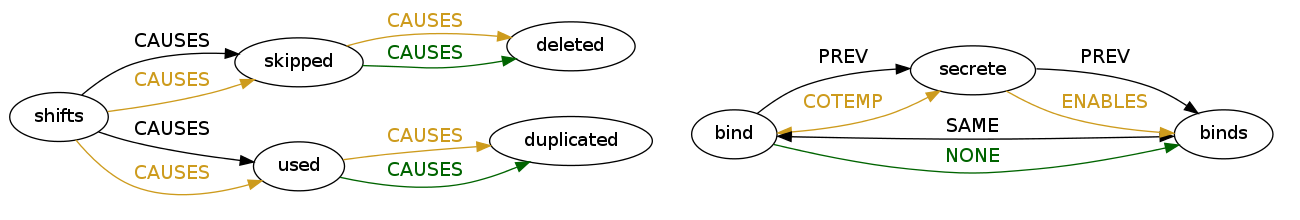
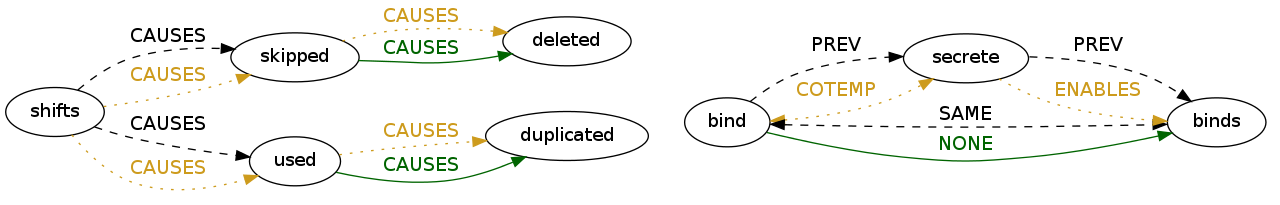
changing figure

diff --git a/Emnlp2013/experiment.tex b/Emnlp2013/experiment.tex
@@ -71,7 +71,7 @@ Table~\ref{tab:paramtuning} presents the order in which global constraints were 
 \begin{figure*}[t]
 \centering
 \includegraphics[width=0.99\textwidth]{figures/example.png} 
-\caption{Fragments of process graphs. Black edges are predictions of \emph{Local}, green edges indicate edges modified by \emph{Global}, and gold edges represent gold standard edges. Original text, Left: ``... the template \emph{shifts} with respect to the new complementary strand, and a part of the template strand is either \emph{skipped} by the replication machinery or \emph{used} twice as a template.
+\caption{Fragments of process graphs. Black edges (dashed) are predictions of \emph{Local}, green edges (solid) indicate edges modified by \emph{Global}, and gold edges (dotted) represent gold standard edges. Original text, Left: ``... the template \emph{shifts} with respect to the new complementary strand, and a part of the template strand is either \emph{skipped} by the replication machinery or \emph{used} twice as a template.
 As a result, a segment of DNA is \emph{deleted} or \emph{duplicated}." Right: ``Cells of mating type A secrete a signaling molecule, which can \emph{bind} to specific receptor proteins on nearby cells. At the same time, cells \emph{secrete} factor, which \emph{binds} to receptors on a cells."}
 \label{fig:graph}
 \end{figure*}
